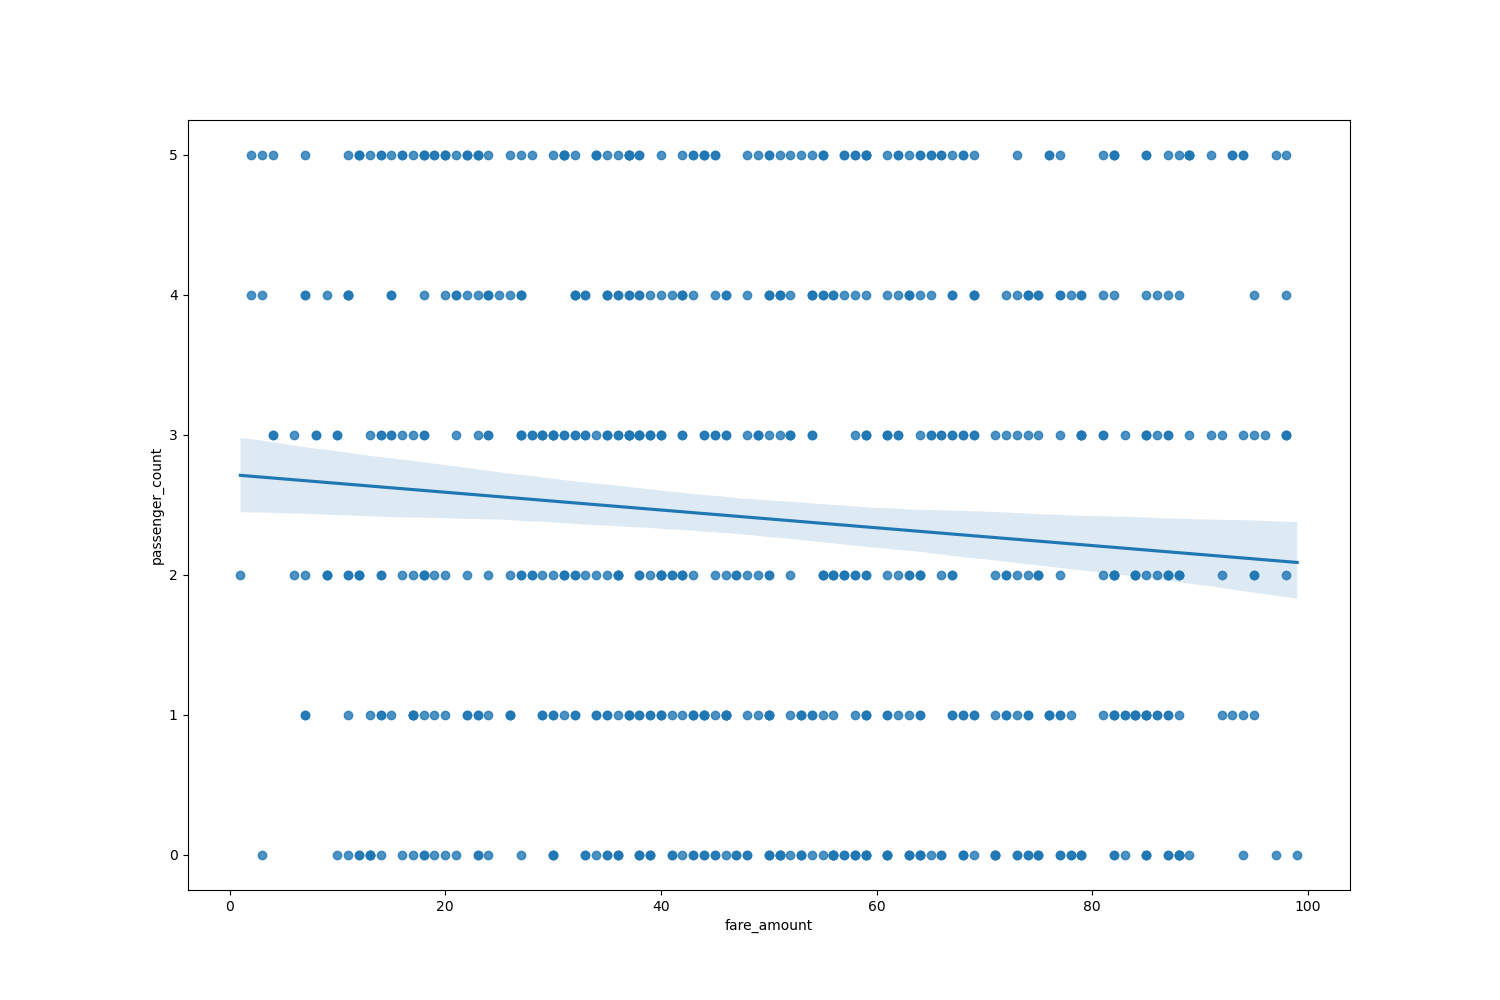
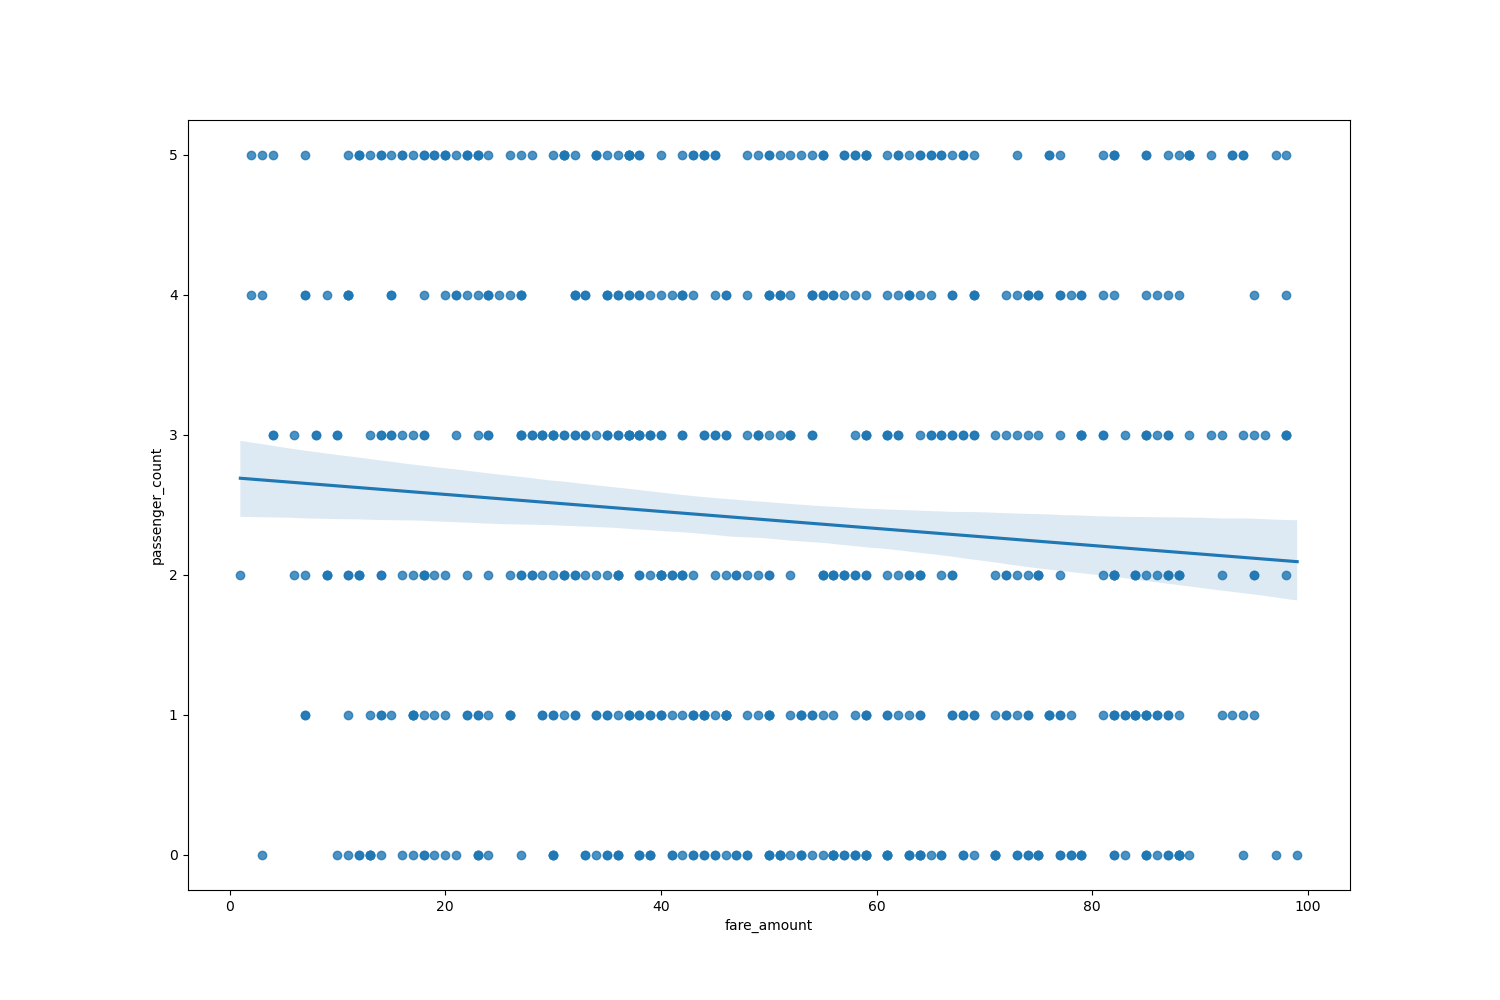
업로드

Changed region(s): [[0.1533, 0.434, 0.5827, 0.527]]

diff --git a/250314-Exam2-pik/q7.py b/250314-Exam2-pik/q7.py
@@ -7,141 +7,55 @@ import matplotlib.pyplot as plt
 # 데이터 주소
 DATA_PATH = "./250314-Exam2-pik/data/taxi_fare_data.csv"
 
-#데이터를 DataFram의 형태로 불러옵니다.
+# 데이터 불러오기
 def load_csv(path):
-    data_frame = pd.read_csv(path)
-    return data_frame
+    return pd.read_csv(path)
 
-# 결측치 처리 함수입니다.
+# 결측치 처리 함수
 def del_missing(df):
-    
-    # df에서 Unnamed: 0 feature 데이터를 제거하고 del_un_df에 저장합니다.
-    del_un_df = df.drop(['Unnamed: 0'], axis='columns')
-    
-    # del_un_df에서 id feature 데이터를 제거하고 del_un_id_df에 저장합니다.
-    del_un_id_df = del_un_df.drop(['id'], axis='columns')
-    
-    # del_un_id_df의 누락된 데이터가 있는 행을 제거하고 removed_df에 저장합니다.
-    removed_df = del_un_id_df.dropna()
-    
-    return removed_df
+    df = df.drop(['Unnamed: 0', 'id'], axis=1, errors='ignore')  # 해당 컬럼이 없어도 오류 방지
+    return df.dropna()
 
-# 리스트를 입력으로 받아서 해당 리스트 내에 음수값이 있으면 그 위치(인덱스)들을 리스트로 출력하는 함수를 만듭니다.
-def get_negative_index(list_data):
-    neg_idx = []
-    
-    for i, value in enumerate(list_data):
-        if value < 0:
-            neg_idx.append(list_data.index[i])
-            
-    return neg_idx
+# 음수값이 있는 인덱스 찾기
+def get_negative_index(series):
+    return series[series < 0].index.tolist()
 
-# DataFrame 내에 제거해야 하는 이상치의 인덱스를 반환하는 함수를 만듭니다.
-def outlier_index():
-    # get_negative_index() 함수를 통해서, fare_amount와 passenger_count 내의 음수값들의 인덱스를 반환합니다.
-    idx_fare_amount = get_negative_index(fare_amount)
-    idx_passenger_count = get_negative_index(passenger_count)
-    
-    idx_zero_distance = []    
-    idx = [i for i in range(len(passenger_count))]
-    zipped = zip(idx, pickup_longitude, pickup_latitude, dropoff_longitude, dropoff_latitude)
-    
-    for i, x, y, _x, _y in zipped:
-        # 타는 곳(pickup_longitude,pickup_latitude)과 내리는 곳(drop_longitude, drop_latitude)이 같은 데이터의 인덱스를 idx_zero_distance에 저장합니다.
-        if (x == _x) and (y == _y):
-            idx_zero_distance.append(i)
-            
-    total_index4remove = list(set(idx_fare_amount+idx_passenger_count+idx_zero_distance))
-    
-    return total_index4remove
+# 이상치 인덱스 찾기
+def outlier_index(df):
+    idx_fare_amount = get_negative_index(df['fare_amount'])
+    idx_passenger_count = get_negative_index(df['passenger_count'])
 
-# 인덱스를 기반으로 DataFrame 내의 데이터를 제거하고, 제거된 DataFrame을 반환하는 함수를 만듭니다.
-def remove_outlier(dataframe, list_idx):
-    return dataframe.drop(list_idx)
+    idx_zero_distance = df[
+        (df['pickup_longitude'] == df['dropoff_longitude']) & 
+        (df['pickup_latitude'] == df['dropoff_latitude'])
+    ].index.tolist()
 
-# load_csv 함수를 사용하여 데이터를 불러와 df에 저장합니다.
+    return list(set(idx_fare_amount + idx_passenger_count + idx_zero_distance))
+
+# 이상치 제거 함수 (존재하는 인덱스만 삭제)
+def remove_outlier(df, list_idx):
+    valid_idx = list(set(df.index).intersection(set(list_idx)))  # 실제 존재하는 인덱스만 필터링
+    return df.drop(index=valid_idx) if valid_idx else df  # 삭제할 인덱스가 없으면 그대로 반환
+
+# 데이터 로드 및 처리
 df = load_csv(DATA_PATH)
-
-
-#,id,pickup_datetime,pickup_latitude,pickup_longitude,dropoff_latitude,dropoff_longitude,passenger_count,fare_amount
-# id,픽업시간,픽업위도,픽업경도,도착위도,도착경도,인원수,요금
-
-# 1-1. del_missing 함수로 df의 결측치을 처리하여 df에 덮어씌웁니다.
 df = del_missing(df)
-#결측치 처리 후 출력
-print(df.head(10))
-# 결측치 확인 
 
-# 불러온 DataFrame의 각 인덱스의 값들을 변수로 저장합니다.
-fare_amount = df['fare_amount']
-passenger_count = df['passenger_count']
-pickup_longitude = df['pickup_longitude']
-pickup_latitude = df['pickup_latitude']
-dropoff_longitude = df['dropoff_longitude']
-dropoff_latitude = df['dropoff_latitude']
-
-# 1-2. remove_outlier()을 사용하여 이상치를 제거합니다.
-# remove_outlier()가 어떤 인자들을 받는지 확인하세요.
-remove_index = outlier_index()
+# 이상치 제거
+remove_index = outlier_index(df)
 df = remove_outlier(df, remove_index)
 
-# 2. df.corr()을 사용하여 상관 계수 값 계산
+# 상관계수 계산 및 시각화
 df = df[['fare_amount', 'passenger_count', 'pickup_longitude', 'pickup_latitude', 'dropoff_longitude', 'dropoff_latitude']]
 corr_df = df.corr()
 
-# seaborn을 사용하여 heatmap 출력
-plt.figure(figsize=(15,10))
+plt.figure(figsize=(15, 10))
 sns.heatmap(corr_df, annot=True, cmap='PuBu')
 plt.savefig("plot.png")
 
-
-# regplot함수의 출력
-plt.figure(figsize = (15, 10))
+plt.figure(figsize=(15, 10))
 sns.regplot(x='fare_amount', y='passenger_count', data=df)
 plt.savefig("plot2.png")
 
-
-
-
-
-'''해결 안됨 아직직
-
-#필요한 데이터의 NaN 제거
-pickup_latitude = pickup_latitude.dropna()
-pickup_longitude = pickup_longitude.dropna()
-dropoff_latitude = dropoff_latitude.dropna()
-dropoff_longitude = dropoff_longitude.dropna()
-
-#픽업 위치와 도착 위치 사이의 거리 구하기
-def distance(x1, y1, x2, y2): #함수 설명: x1, y1는 픽업 위도와 경도 y1,y2는 도착 위도와 경도
-    return np.sqrt((x1-x2)**2 + (y1-y2)**2) # 픽업 위치와 도착 위치 사이의 거리 구하기 = 픽업위도 - 도착위도 제곱 + 픽업 경도 - 도착경도 제곱
-
-# 거리 출력 테스트
-print("distance 6번째 고객",distance(pickup_latitude[6], pickup_longitude[6], dropoff_latitude[6], dropoff_longitude[6]))
-
-print("distance 1번째 고객",distance(pickup_latitude[0], pickup_longitude[0], dropoff_latitude[0], dropoff_longitude[0]))
-
-
-
-
-
-
-# distance() 함수를 이용하여 거리 구하기
-distance_list = [] 
-for i in range(len(pickup_latitude)):
-    distance_list.append(distance(pickup_latitude[i], pickup_longitude[i], dropoff_latitude[i], dropoff_longitude[i]))
-    print(distance_list.append(distance(pickup_latitude[i], pickup_longitude[i], dropoff_latitude[i], dropoff_longitude[i])))
-
-# distance() 함수를 이용하여 거리 구하기
-distance_list = [] 
-for i in range(len(pickup_latitude)):
-    distance_list.append(distance(pickup_latitude[i], pickup_longitude[i], dropoff_latitude[i], dropoff_longitude[i]))
-
-# distance_list를 df에 추가
-df['distance'] = distance_list
-
-# 구한 결과를 그래프로 출력 하고 그래프로 저장 x축 이동거리에 따른 y축 요금의 상관 관계계
-plt.figure(figsize=(15,10))
-plt.title("이동거리와 요금")
-sns.regplot(x='distance', y='fare_amount', data=df)
-plt.savefig("plot3.png")'''
+print(" 데이터 전처리 완료!")
+print("데이터 크기:", df.shape)
